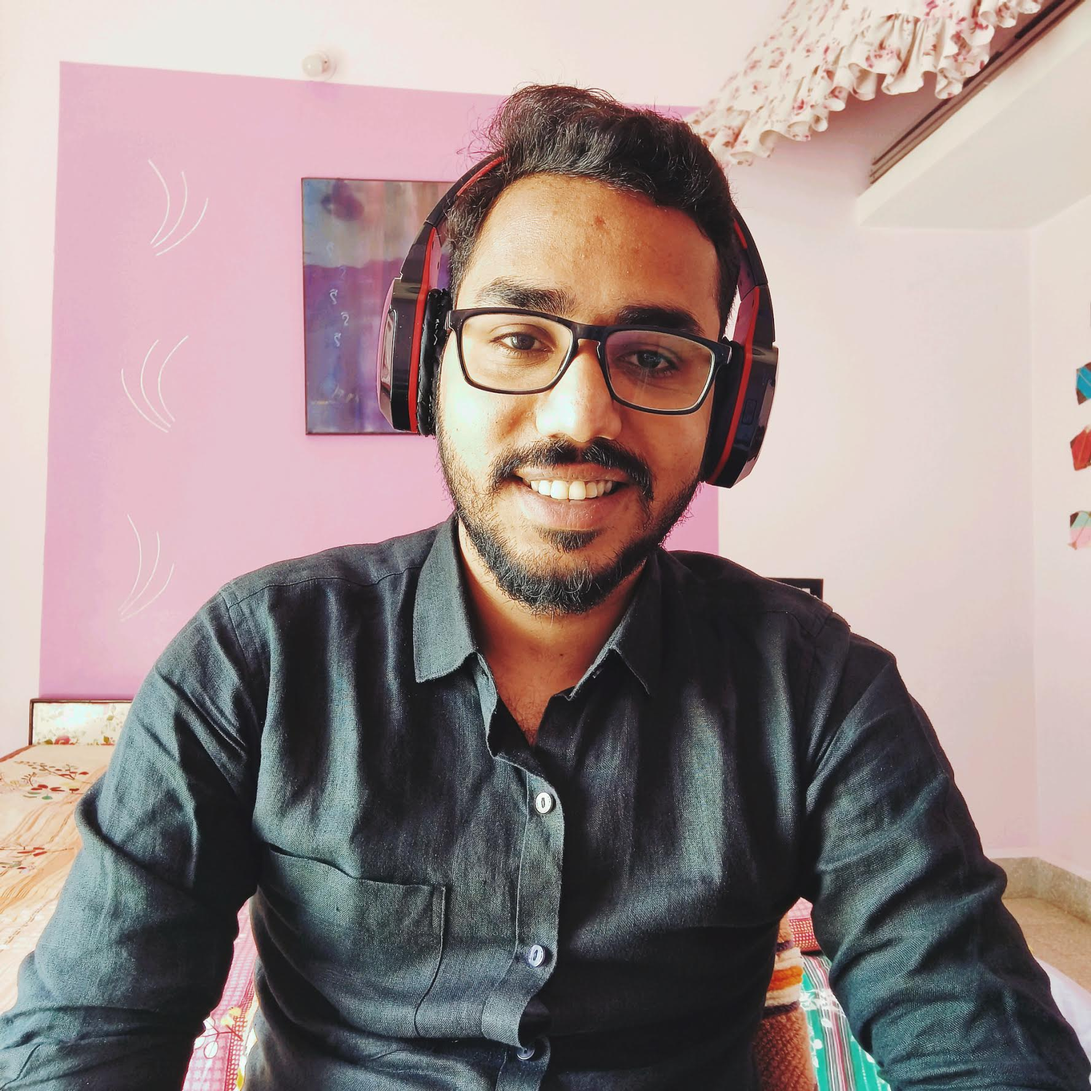
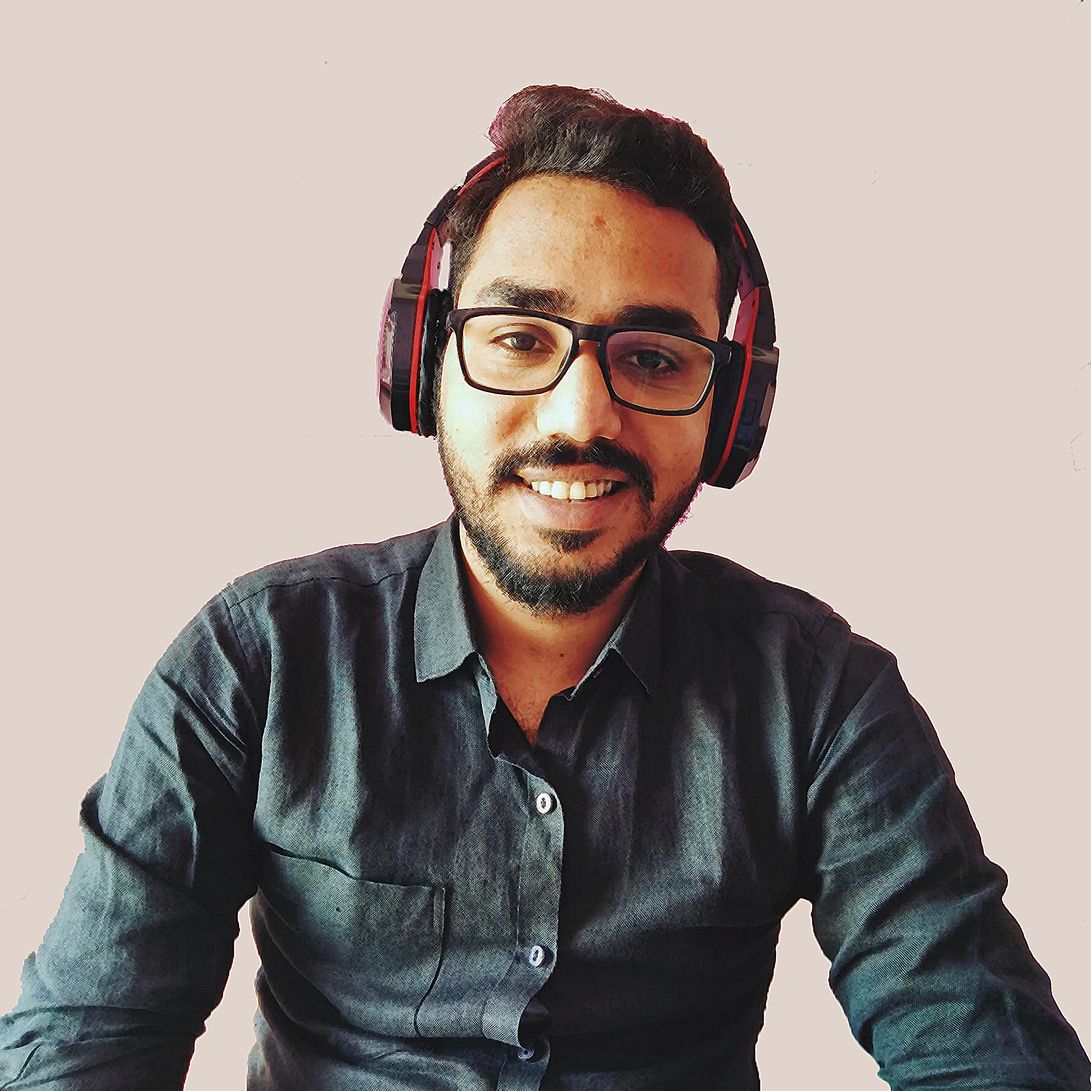
new photo

diff --git a/saketverma/src/App.js b/saketverma/src/App.js
@@ -62,7 +62,7 @@ function App() {
               <div className="personal-inner">
                 <img
                   className="avatar shadows"
-                  src={require("./Images/SaketVerma_Colored2.jpg")}
+                  src={require("./Images/photu.jpg")}
                   alt="my Avatar"
                 />
                 <div className="personal-info mobile-center">
